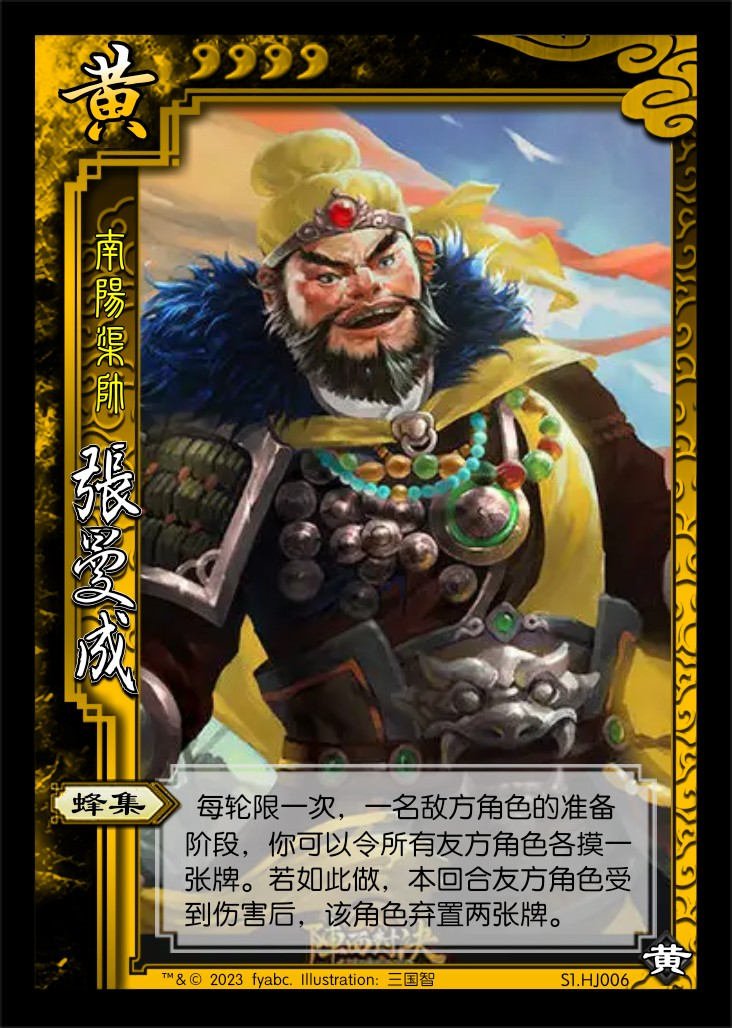
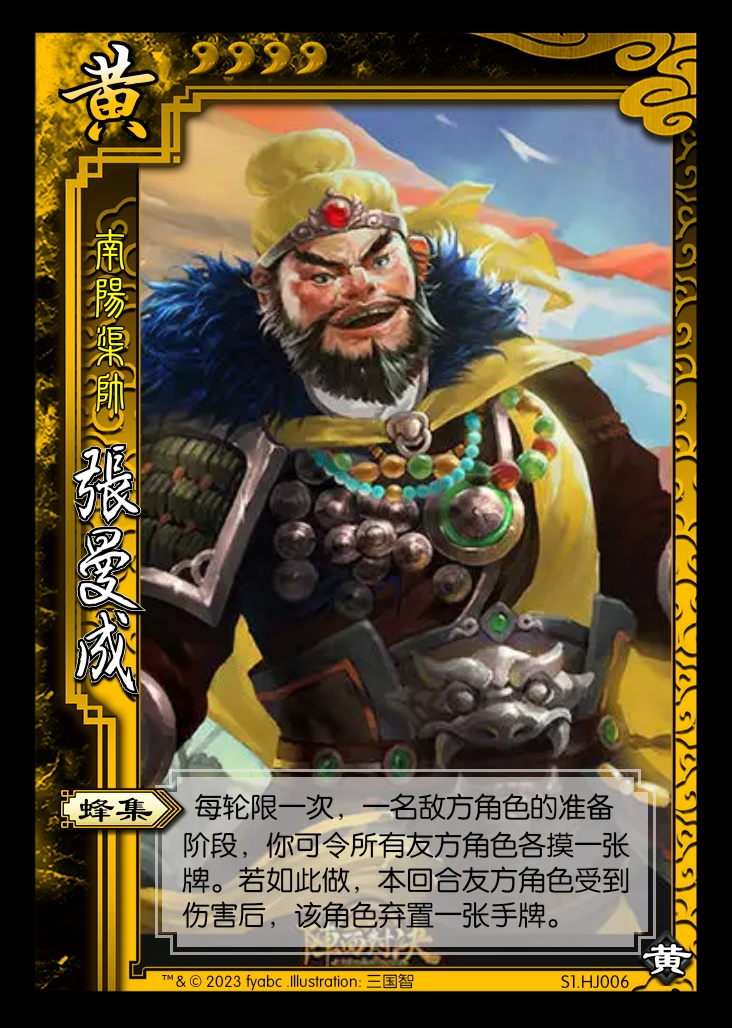
Modify some cards & heroes.

Changed region(s): [[0.0301, 0.0311, 0.9617, 0.965], [0.9918, 0.9961, 1.0, 1.0], [0.0601, 0.9339, 0.0902, 0.965]]

diff --git a/SanGuoSha/SGS-RebirthProject/scenes/scene1.md b/SanGuoSha/SGS-RebirthProject/scenes/scene1.md
@@ -18,7 +18,7 @@
         2. 若出现同一阵营的三个身份座位相连的情况，则将黄巾阵营中位于中间的身份和汉廷阵营中位于中间的身份交换。
             1. 防止同一阵营三连动。
     3. 选择武将
-        1. 黄巾和汉廷分别拥有一个专属武将池，此外双方还有一个公共武将池，列举如下（带“+”号表示拥有主公技，*斜体*表示本模式专属武将）。
+        1. 黄巾和汉廷分别拥有一个专属武将池，此外双方还有一个公共武将池，列举如下（带“+”号表示拥有主帅技，*斜体*表示本模式专属武将）。
             1. 黄巾专属武将池：张角+、张宝+、张梁+、张燕、黄巾雷使、*张曼成*、*马元义*、*波才*、*程远志*、*严政*
             2. 汉廷专属武将池：刘宏+、皇甫嵩+、朱儁+、卢植、张让、董卓、曹操、刘备、刘焉、*封谞*
             3. 公共武将池：共20个（廖化、公孙瓒、马腾、韩遂、关羽、张飞、赵云、张鲁、曹洪、孙坚、甘宁、祖茂、袁绍、何进、何太后、吕布、貂蝉、孔融、糜竺、诸葛瑾）。
@@ -129,7 +129,7 @@
     4. ♦：♦A【大赦天下】-3民愤、♦J【闪】-1民愤、♦Q【桃】+1/-1民愤、♦K【无懈可击】-1民愤。
     5. 调整民愤能力的牌尽量按照对称性安排：总计16张，每个花色四张；除了A点有四张外，每个点数一张；黑色牌增加民愤，红色牌减少民愤。
 
-### 游戏牌说明
+### 游戏牌特殊属性
 
 1. 民愤调整类别a：直接增加或减少  
     该类卡牌在右上角以+X和-X表示。当一名角色使用此牌时，其*可以*按照牌面的效果调整民愤。也有卡牌同时拥有+X和-X的两种效果，使用者可以选择其中的一种执行。在牌表中，这类牌分别记作+X、-X或+X/-X。
@@ -140,7 +140,7 @@
     > 注意：调整民愤的效果不是锁定的，特别是当民愤调整方向对己方不利时。
 
 2. 民愤调整类别b：向0调整  
-    该类卡牌在右上角以 X → 0 表示。当一名角色使用此牌时，其*可以*按照牌面显示的值X将民愤向0调整（至多调整至0，不能使民愤值变号）。在牌表中，这类牌也记作X → 0。
+    该类卡牌在右上角以 X → 0 表示。当一名角色使用此牌时，其*可以*按照牌面显示的值X将民愤向0调整（至多调整至0，不能使民愤值变号）。
 
     1. 例1：![民愤向0调整2](../assets/images/scenes/scene1/S1.1-H2-闪.png)（触发该民愤调整效果，可令民愤值从10变为8，或从-10变为-8，或从1变为0，或从-1变为0）
 
@@ -149,49 +149,52 @@
 
     1. 例1：![玉玺](../assets/images/scenes/scene1/S1.2-SA-玉玺.png)
     2. 例2：![太平要术](../assets/images/scenes/scene1/S1.3-SA-太平要术.png)
-4. ![黄天当立](../assets/images/scenes/scene1/S1.1-SA-黄天当立.png) 【黄天当立】：锦囊，普通  
+
+### 游戏牌说明
+
+1. ![黄天当立](../assets/images/scenes/scene1/S1.1-SA-黄天当立.png) 【黄天当立】：锦囊，普通  
     *汉廷阵营禁用。*  
     出牌阶段，对所有友方角色使用。每名目标角色依次进行一次民愤判定流程，且防止使民愤值减少的效果。
 
     > “民愤判定”即每轮开始时执行的判定增减民愤过程，见上述游戏流程第5节。  
-5. ![汉道永昌](../assets/images/scenes/scene1/S1.3-HA-汉道永昌.png) 【汉道永昌】：锦囊，普通  
+2. ![汉道永昌](../assets/images/scenes/scene1/S1.3-HA-汉道永昌.png) 【汉道永昌】：锦囊，普通  
     *黄巾阵营禁用。*  
     出牌阶段，对所有有手牌的敌方角色使用。你用一张手牌与这些角色同时拼点，你每赢一次，民愤-1。
-6. ![盗贼蜂起](../assets/images/scenes/scene1/S1.3-C6-盗贼蜂起.png) 【盗贼蜂起】：锦囊，普通  
+3. ![盗贼蜂起](../assets/images/scenes/scene1/S1.3-C6-盗贼蜂起.png) 【盗贼蜂起】：锦囊，普通  
     出牌阶段，对所有其他角色使用。每名目标角色弃置与其距离最小（你除外）的另一名角色区域内的一张牌。
 
     > 相比原版微调：增加了弃置判定区牌的选项。
-7. ![调虎离山](../assets/images/scenes/scene1/S1.3-HK-调虎离山.png) 【调虎离山】：锦囊，普通  
+4. ![调虎离山](../assets/images/scenes/scene1/S1.3-HK-调虎离山.png) 【调虎离山】：锦囊，普通  
     出牌阶段，对一至两名其他角色使用。目标角色本回合移出游戏。你摸一张牌。
 
     > 引文：“待天以困之，用人以诱之，往蹇来返。” ——《三十六计》  
     > 沿用国战版【调虎离山】效果，较为适用于明确划分阵营的对抗和阵法效果。  
     > 注：【调虎离山】即使被【无懈可击】响应，仍然执行“你摸一张牌”的效果。  
-8. ![一鼓作气](../assets/images/scenes/scene1/S1.2-S10-一鼓作气.png) 【一鼓作气】：锦囊，延时  
+5. ![一鼓作气](../assets/images/scenes/scene1/S1.2-S10-一鼓作气.png) 【一鼓作气】：锦囊，延时  
     出牌阶段，对你使用。将【一鼓作气】置于你的判定区，若判定结果为♣2~9，则保留此牌；若你的判定区内有【一鼓作气】，一名友方角色使用【杀】指定目标后，可令目标选择一项：弃置一张手牌，或令你摸一张牌。
 
     > 引文：“一鼓作气，再而衰，三而竭。” ——《左传·庄公十年》  
     > 一个大约持续一轮的团队进攻buff。若判定结果为♣2~9，即可一直拥有该buff。  
-9. ![鸣金收兵](../assets/images/scenes/scene1/S1.3-HQ-鸣金收兵.png) 【鸣金收兵】：锦囊，延时  
+6.  ![鸣金收兵](../assets/images/scenes/scene1/S1.3-HQ-鸣金收兵.png) 【鸣金收兵】：锦囊，延时  
     出牌阶段，对你使用。将【鸣金收兵】置于你的判定区，若判定结果为♥2~9，则保留此牌；若你的判定区内有【鸣金收兵】，一名友方角色受到♠牌的伤害时，可防止此伤害。
 
     > 引文：“闻鼓声而进，闻金声而退。” ——《荀子·议兵》  
     > 一个大约持续一轮的团队防御buff。若判定结果为♥2~9，即可一直拥有该buff。  
-10. ![雌雄双股剑](../assets/images/scenes/scene1/S1.2-S2-雌雄双股剑.png) 【雌雄双股剑】：装备，武器 攻击范围：2  
+7.  ![雌雄双股剑](../assets/images/scenes/scene1/S1.2-S2-雌雄双股剑.png) 【雌雄双股剑】：装备，武器 攻击范围：2  
     当你使用♣【杀】指定一名角色为目标后，你可以令其选择一项：弃置一张手牌，或令民愤向对你有利的方向变化1点。
 
     > 修改了【雌雄双股剑】，设计了与新机制相关的新效果。
-11. ![黄头巾](../assets/images/scenes/scene1/S1.3-S2-黄头巾.png) 【黄头巾】：装备，防具  
+8.  ![黄头巾](../assets/images/scenes/scene1/S1.3-S2-黄头巾.png) 【黄头巾】：装备，防具  
     当你受到雷电伤害时，你可以防止此伤害。  
     当你受到伤害后，你可以令民愤+1。  
     当你被击退时，可获得一个重整标记。
 
     > 重做【黄头巾】效果，适应新机制。
-12. ![玉玺](../assets/images/scenes/scene1/S1.2-SA-玉玺.png) 【玉玺】：装备，宝物  
+9.  ![玉玺](../assets/images/scenes/scene1/S1.2-SA-玉玺.png) 【玉玺】：装备，宝物  
     *黄巾阵营禁用。*  
     **锁定技**，你的手牌上限+2；你视为拥有本方主帅的主帅技；结束阶段，你令民愤-1。  
 
-13. ![太平要术](../assets/images/scenes/scene1/S1.3-SA-太平要术.png) 【太平要术】：装备，宝物  
+10. ![太平要术](../assets/images/scenes/scene1/S1.3-SA-太平要术.png) 【太平要术】：装备，宝物  
     汉廷阵营禁用。  
     出牌阶段结束时，你可以将任意张手牌置于该牌上，称为“符”（“符”的数量至多为4）。  
     当一名角色的判定牌生效前，你可以打出一张“符”代替之。  
@@ -224,13 +227,13 @@
 
     > 无改动。  
 5. ![黄巾雷使](../assets/images/scenes/scene1/S1.HJ005-黄巾雷使.jpg) S1.HJ005 黄巾雷使 女 黄 3体力 称号：雷祭之姝
-    1. 【黄巾】：**锁定技**，若你的装备区里没有防具牌和宝物牌，你视为装备着【黄头巾】。
-    2. 【符篆】：准备阶段，你可以将一张黑色普通锦囊牌当【黄巾雷符】使用。
+    1. 【黄巾】：**锁定技**，若你的装备区里没有防具牌，你视为装备着【黄头巾】。
+    2. 【符篆】：出牌阶段限一次，你可以将一张黑色普通锦囊牌当【黄巾雷符】使用。
     3. 【助祭】：当一名其他友方角色造成雷电伤害时，你可以令其判定，若结果为：黑色，该角色获得此牌；红色，你获得此牌。
 
-    > 【黄巾】技能相比原版加强，因此修改其他技能，以平衡强度。  
+    > 基于原版微调。  
 6. ![张曼成](../assets/images/scenes/scene1/S1.HJ006-张曼成.jpg) S1.HJ006 张曼成 男 黄 4体力 称号：南阳渠帅
-    1. 【蜂集】：每轮限一次，一名敌方角色的准备阶段，你可以令所有友方角色各摸一张牌。若如此做，本回合友方角色受到伤害后，该角色弃置两张牌。
+    1. 【蜂集】：每轮限一次，一名敌方角色的准备阶段，你可令所有友方角色各摸一张牌。若如此做，本回合友方角色受到伤害后，该角色弃置一张手牌。
 7. ![马元义](../assets/images/scenes/scene1/S1.HJ007-马元义.jpg) S1.HJ007 马元义 男 黄 4体力 称号：血动黄幡
     1. 【符佑】：一名友方角色的判定牌生效后，若该角色为你或与你处于同一队列，你可以令民愤+1。
     2. 【合乱】：**限定技**，出牌阶段，你可以依次指定每名其他角色的一个有牌的区域，该角色将该区域内的一张牌展示并交给你。若此牌为红色牌，其对你造成1点火焰伤害，然后你进行一次民愤判定。

diff --git a/SanGuoSha/SGS-RebirthProject/ext-main/ext1.md b/SanGuoSha/SGS-RebirthProject/ext-main/ext1.md
@@ -74,17 +74,14 @@
 
     > “复原武将牌”包括重置和翻至正面朝上。只有原来武将牌是背面朝上的角色在复原之后需要弃置两张手牌。  
     > 该牌用来平衡大量属性伤害的效果，类似【白银狮子】在军争篇中的地位。  
-    > 引文：“丁酉，大赦天下，诸党人禁锢小功以下皆除之。” ——《后汉书·孝灵纪》  
 2. ![盗贼蜂起](../assets/images/ext-main/ext1/E1-C6-盗贼蜂起.png) 【盗贼蜂起】：锦囊，普通  
    出牌阶段，对所有其他角色使用。每名目标角色弃置与其距离最小（你除外）的另一名角色的一张牌。
 
     > 若除你以外只有一名其他角色，使用【盗贼蜂起】没有任何效果。  
-    > 引文：“朝政日非，以致天下人心思乱，盗贼蜂起。”  ——《三国演义》  
 3. ![民不聊生](../assets/images/ext-main/ext1/E1-CA-民不聊生.png) 【民不聊生】：锦囊，延时  
     出牌阶段，对一名角色使用。将【民不聊生】置于其判定区，若判定结果不为♦，则该角色摸牌阶段少摸一张牌，并将之置入其下家的判定区。
 
     > 若判定结果为♦，则移去该【民不聊生】。  
-    > 引文：“百姓罢敝，头会箕敛，以供军费，财匮力尽，民不聊生。” ——《史记·张耳陈余列传》  
 4. ![黄巾雷符](../assets/images/ext-main/ext1/E1-S3-黄巾雷符.png) 【黄巾雷符】：锦囊，延时  
     出牌阶段，对距离为1的一名其他角色使用。将【黄巾雷符】放置于该角色的判定区，若判定结果不为♦，则该角色受到1点雷电伤害。
 
@@ -94,15 +91,12 @@
 6. ![飞石](../assets/images/ext-main/ext1/E1-SQ-飞石.png) 【飞石】：装备，武器 攻击范围：2  
    **锁定技**，当你使用【杀】指定一名角色为目标后，若你不在该角色的攻击范围内，此【杀】不可被【闪】响应。
 
-   > 引文：“兵矢尽，乃令壁中男女，聚治石如杅斗者置四隅。褚飞石掷之，所值皆摧碎。” ——《三国志·魏志·许褚传》  
-7. ![黄头巾](../assets/images/ext-main/ext1/E1-C2-黄头巾.png) 【黄头巾】：装备，防具  
-   你的回合外，当你需要使用或打出一张基本牌时，你可以令一名其他角色选择是否弃置一张同名的牌。若其选择是，则视为你使用或打出了该牌；然后若该角色装备着【黄头巾】，其摸一张牌。
+   > 说明：该武器是许褚用来对付盗贼的，和许褚的相性也算不错。  
+7. ![黄头巾](../assets/images/ext-main/ext1/E1-C2-黄头巾-v2.png) 【黄头巾】：装备，防具  
+   当你受到伤害后，你可以判定，若点数不大于3X（X为场上装备着【黄头巾】的角色数），你对伤害来源造成1点雷电伤害。
 
-   > 每次需要使用或打出一张基本牌的时机限一次，你只能对一名其他角色发动【黄头巾】的特效。  
-   > 引文：“中平元年春二月，巨鹿人张角自称‘黄天’，其部帅有三十六方，皆着黄巾，同日反叛。” ——《后汉书·孝灵纪》  
-8. ![玉追](../assets/images/ext-main/ext1/E1-C5-玉追.png) 【玉追】：装备，-1马
-
-   > 引文：“人中有张飞，马中有玉追。” ——《太平寰宇记》  
+   > 装备【黄头巾】的角色越多越有用，契合黄巾起义一呼百应的特点。  
+8. ![玉追](../assets/images/ext-main/ext1/E1-C5-玉追.png) 【玉追】：装备，-1马  
 9. ![太平要术](../assets/images/ext-main/ext1/E1-SA-太平要术.png) 【太平要术】：装备，宝物  
    出牌阶段结束时，你可以将任意张手牌置于该牌上，称为“符”（“符”的数量至多为4）。  
    当一名角色的判定牌生效前，你可以打出一张“符”代替之。  
@@ -134,9 +128,9 @@
    1. 【捷速】：准备阶段/结束阶段，若你的手牌数小于手牌上限，你可以进行判定，若结果为黑色，你视为对一名其他角色使用一张无距离限制的雷【杀】。
 
    > 【捷速】出处：“燕剽捍捷速过人，故军中号曰飞燕。 ——《三国志·魏志·二公孙陶四张传》”
-4. ![黄巾雷使](../assets/images/ext-main/ext1/E1-黄巾雷使.png) QUN014 黄巾雷使 女 群-黄 3体力 称号：雷祭之姝
+4. ![黄巾雷使](../assets/images/ext-main/ext1/E1-QUN014-黄巾雷使-v2.jpg) QUN014 黄巾雷使 女 群-黄 3体力 称号：雷祭之姝
    1. 【黄巾】：**锁定技**，若你的装备区里没有防具牌，你视为装备着【黄头巾】。
-   2. 【符篆】：出牌阶段限一次，你可以将一张黑色普通锦囊牌当【黄巾雷符】使用，然后摸一张牌。
+   2. 【符篆】：出牌阶段限一次，你可以将一张黑色普通锦囊牌当【黄巾雷符】使用。
    3. 【助祭】：当一名角色造成雷电伤害时，你可以令其进行判定，若结果为：黑色，该角色获得此牌；红色，你获得此牌。
 5. ![刘宏](../assets/images/ext-main/ext1/E1-刘宏-v2.png) HAN003 刘宏 男 汉 5体力 称号：汉灵帝
    1. 【鬻爵】：其他角色的出牌阶段限一次，该角色可以展示并交给你一张牌。若此牌为：黑色，其弃置场上的一张牌；红色，其摸一张牌。

diff --git a/SanGuoSha/SGS-RebirthProject/ext-main/ext4.md b/SanGuoSha/SGS-RebirthProject/ext-main/ext4.md
@@ -197,9 +197,9 @@
 
 1. ![神贾诩](../assets/images/ext-main/ext4/E4-LE004-神贾诩.jpg) LE004 贾诩 男 神 3体力 称号：倒悬云衢
     1. 【兆乱】：结束阶段或你死亡时，你可令所有其他角色获得“相啖”。
-    2. 【毒策】：游戏开始时，你随机抽取等同于角色数量的“策”。一名角色的出牌阶段限一次，其可付出相应的代价换取一个“策”并执行其效果。回合开始时，你重置所有“策”。
+    2. 【毒策】：游戏开始时，你随机抽取等同于角色数量的“策”。每名角色的出牌阶段限一次，其可付出相应的代价换取一个“策”并执行其效果。你的回合开始时，重置所有“策”。
 
-    > 【相啖】：**锁定技**，你的【桃】只能当血【杀】或【闪】使用或打出；当你换取“策”后，你失去此技能。  
+    > 【相啖】：**锁定技**，你的【桃】只能当血【杀】或【闪】使用或打出；当你换取“策”后，失去此技能。  
 
     - 所有“策”列表（游戏开始时洗混并随机抽取）：
         - (1个) 代价：无。效果：本回合不能使用【杀】。

diff --git a/SanGuoSha/SGS-RebirthProject/real-cards.md b/SanGuoSha/SGS-RebirthProject/real-cards.md
@@ -1,7 +1,7 @@
 # 实体牌相关事项（待修改）
 
 1. [ ] 标准：周瑜fix，张辽v2，甘宁v2，许褚v3，马超v2，司马懿v2，夏侯惇v2，吕蒙v2，赵云v3
-2. [ ] 扩展1：张让bugfix，黄钺v2，皇甫嵩v2，SP刘备v2，SP刘宏改编号
+2. [ ] 扩展1：张让bugfix，黄钺v2，皇甫嵩v2，SP刘备v2，SP刘宏改编号，黄头巾v2，黄巾雷使v2
 3. [ ] 扩展2：骅骝v2，SP貂蝉改编号，4张鸩毒fix，唐姬fix，刘辩v2，李儒v2，神貂蝉v2
 4. [ ] 扩展3：SP袁绍改编号，SP孙坚改编号，SP诸葛亮改编号、3张冲阵fix、两张巧取fix、鲍信fix描述
 5. [ ] 标准换势力：张角、袁绍、袁术、刘表、刘协、伏皇后
